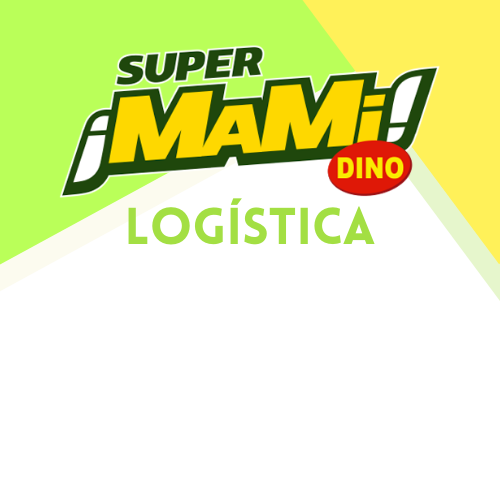
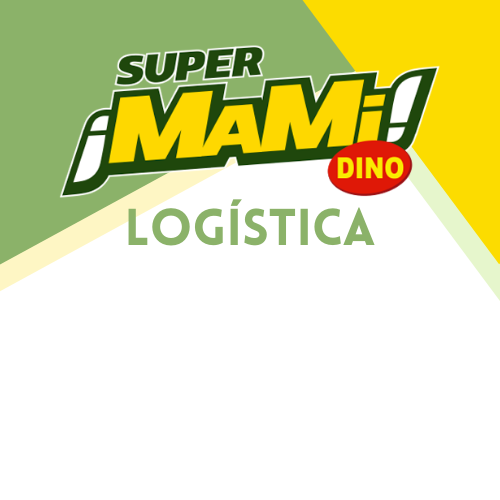
StylesFinal

Changed region(s): [[0.0, 0.0, 1.0, 0.6], [0.45, 0.3, 0.48, 0.33]]

diff --git a/src/app/error/services/error.service.ts b/src/app/error/services/error.service.ts
@@ -1,0 +1,29 @@
+import { Injectable } from '@angular/core';
+import { HttpHandler, HttpRequest, HttpInterceptor } from '@angular/common/http';
+import { throwError } from 'rxjs';
+import { catchError } from 'rxjs/internal/operators';
+
+@Injectable({
+  providedIn: 'root'
+})
+export class HttpErrorInterceptor implements HttpInterceptor {
+  construct() { }
+
+  intercept(req: HttpRequest<any>, next: HttpHandler) {
+    return next.handle(req).pipe(
+      catchError(error => {
+        let errorMessage = '';
+        if (error instanceof ErrorEvent) {
+          // client-side error
+          errorMessage = `Client-side error: ${error.error.message}`;
+        } else {
+          // backend error
+          errorMessage = `Server-side error: ${error.status} ${error.message}`;
+        }
+
+        // aquí podrías agregar código que muestre el error en alguna parte fija de la pantalla.
+        return throwError(errorMessage);
+      })
+    );
+  }
+}

diff --git a/src/theme/variables.scss b/src/theme/variables.scss
@@ -5,14 +5,14 @@
 
 :root {
     /** primary **/
-    --ion-color-primary: #FFF159;
+    --ion-color-primary: #fcdc00;
     --ion-color-primary-rgb: 82, 96, 255;
     --ion-color-primary-contrast: #ffffff;
     --ion-color-primary-contrast-rgb: 255, 255, 255;
     --ion-color-primary-shade: #DFD34E;
     --ion-color-primary-tint: #FFF36E;
     /** secondary **/
-    --ion-color-secondary: #A3DF4E;
+    --ion-color-secondary: #8BB269;
     --ion-color-secondary-rgb: 61, 194, 255;
     --ion-color-secondary-contrast: #ffffff;
     --ion-color-secondary-contrast-rgb: 255, 255, 255;

diff --git a/src/app/app.module.ts b/src/app/app.module.ts
@@ -6,6 +6,7 @@ import { IonicModule, IonicRouteStrategy } from '@ionic/angular';
 import { AppRoutingModule } from './app-routing.module';
 import { AppComponent } from './app.component';
 import { AuthModule } from './auth/auth.module';
+import { HttpErrorInterceptor } from './error/services/error.service';
 
 @NgModule({
   declarations: [AppComponent],
